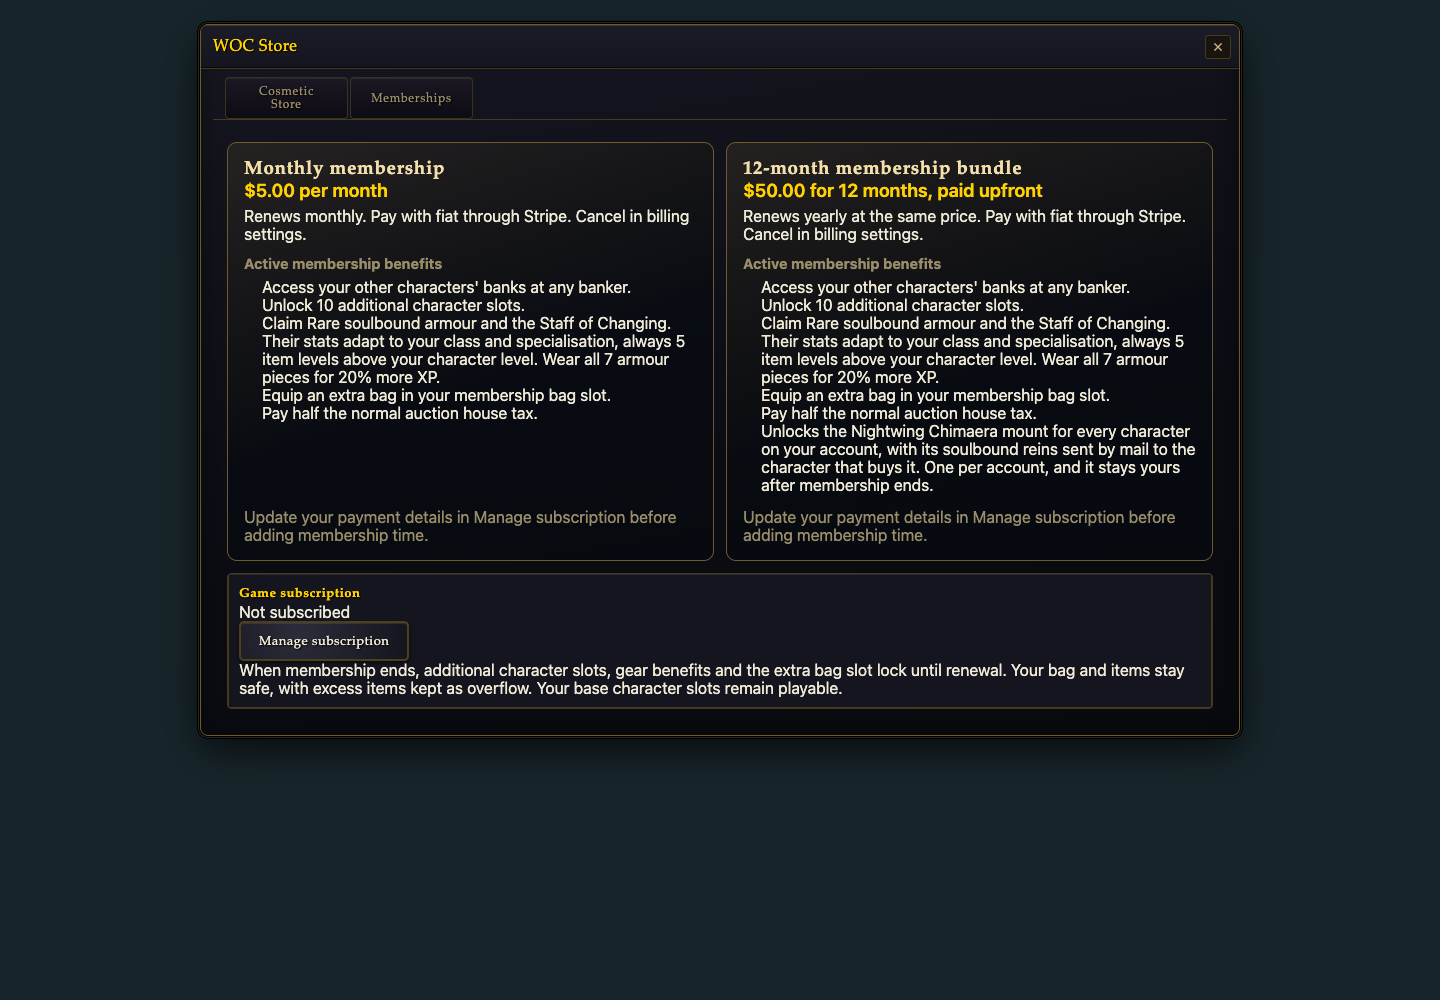
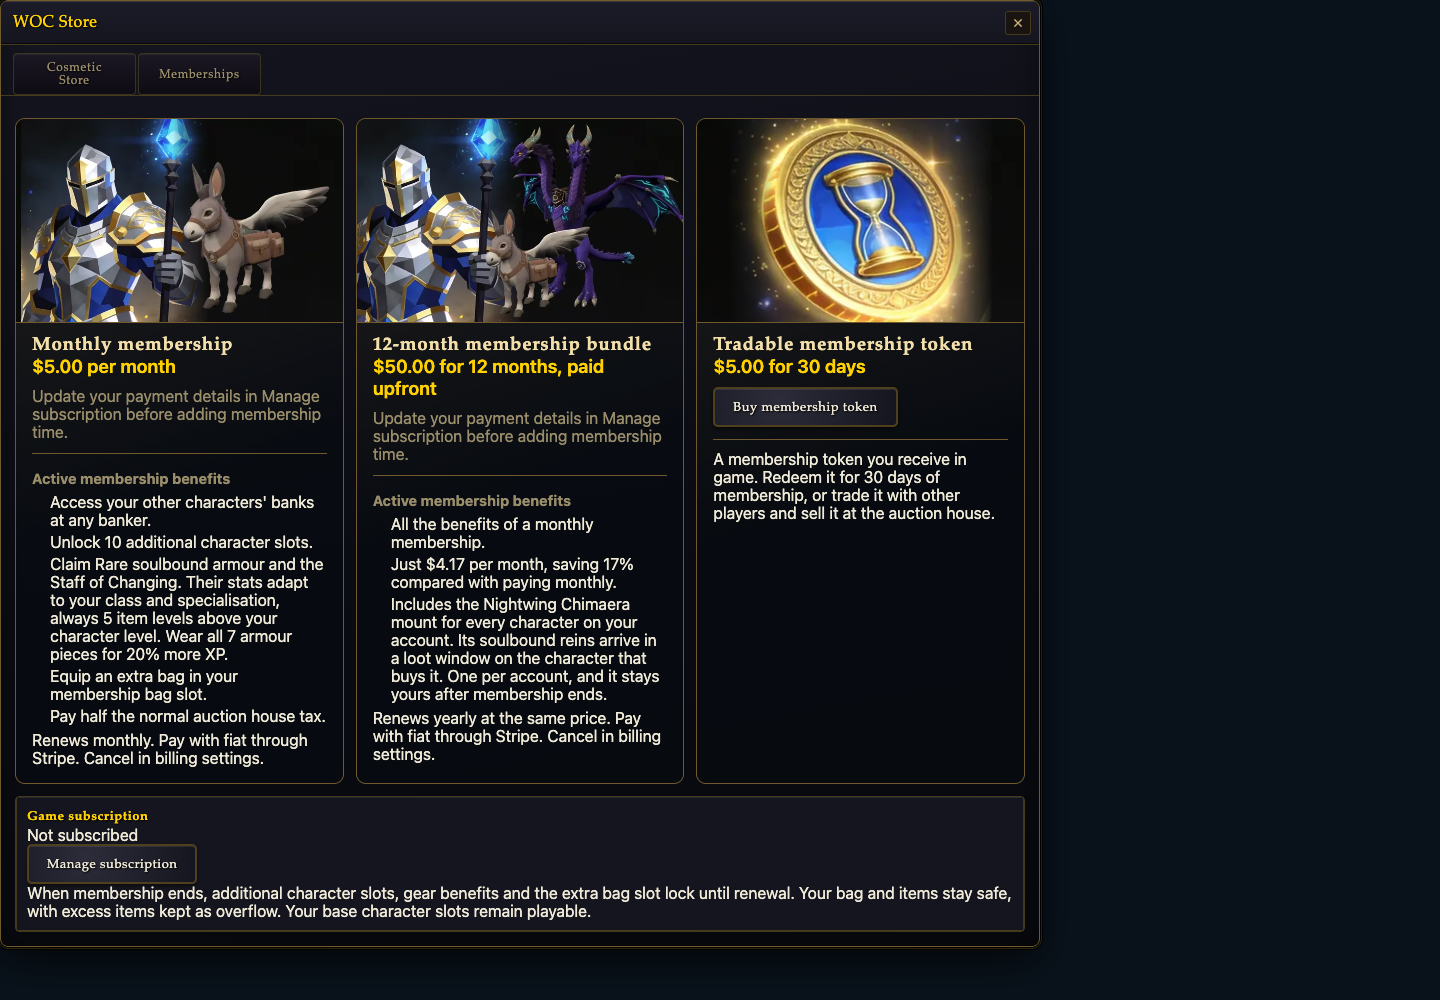
fix(store): retain entry reward delivery across background refreshes
Coalesce a foreground refresh after an outstanding status poll so reopening the store still retrieves offers and delivers rewards. Preserve the release membership artwork and reward flow, and verify the backport with updated component captures and integration tests.

diff --git a/tests/store_membership_refresh.test.ts b/tests/store_membership_refresh.test.ts
@@ -46,8 +46,9 @@ function harness() {
   const snapshot = vi.fn(async () => state);
   const tokenOffer = vi.fn();
   const annualMountClaim = vi.fn();
+  const tokenClaim = vi.fn();
   const link = vi.fn();
-  let hooks: SubscriptionStoreHooks = { snapshot, tokenOffer, annualMountClaim, link };
+  let hooks: SubscriptionStoreHooks = { snapshot, tokenOffer, annualMountClaim, tokenClaim, link };
   const root = document.createElement('div');
   document.body.append(root);
   const store = new DailyRewardsWindow({
@@ -67,6 +68,7 @@ function harness() {
     snapshot,
     tokenOffer,
     annualMountClaim,
+    tokenClaim,
     link,
     setState: (next: Partial<SubscriptionSnapshot>) => {
       state = { ...state, ...next };
@@ -90,17 +92,60 @@ describe('Memberships status refresh', () => {
     for (let i = 0; i < 20; i++) await vi.advanceTimersByTimeAsync(15_000);
     h.setState({
       status: 'trialing',
+      plan: 'game_monthly',
       canStack: true,
       stackLimit: 2_000_000_000,
       currentPeriodEnd: 1_900_000_000,
     });
     await vi.advanceTimersByTimeAsync(15_000);
-    expect(h.root.textContent).toContain('Add 12 months');
+    expect(h.root.textContent).toContain('Upgrade to 12 months');
     expect(h.root.textContent).not.toContain('Checkout pending');
     expect(h.snapshot).toHaveBeenCalledTimes(22);
     expect(h.tokenOffer).toHaveBeenCalledTimes(1);
     expect(h.annualMountClaim).toHaveBeenCalledTimes(1);
     expect(h.link).not.toHaveBeenCalled();
+  });
+
+  it('keeps annual discovery and pending token delivery on entry, outside status polls', async () => {
+    localStorage.setItem('woc.membership-token.pending', 'pending-token-intent');
+    const h = harness();
+    h.setState({ status: 'active', plan: 'game_annual', canStack: true });
+    h.annualMountClaim.mockResolvedValue({ delivered: false });
+    h.tokenClaim.mockResolvedValue({ delivered: false });
+    h.store.openStore('memberships');
+    await vi.advanceTimersByTimeAsync(0);
+    expect(h.annualMountClaim).toHaveBeenCalledExactlyOnceWith();
+    expect(h.tokenClaim).toHaveBeenCalledExactlyOnceWith('pending-token-intent');
+    await vi.advanceTimersByTimeAsync(60_000);
+    expect(h.snapshot).toHaveBeenCalledTimes(5);
+    expect(h.annualMountClaim).toHaveBeenCalledTimes(1);
+    expect(h.tokenClaim).toHaveBeenCalledTimes(1);
+  });
+
+  it('performs a full entry refresh after reopening during an outstanding status poll', async () => {
+    localStorage.setItem('woc.subscription.41.game_annual.pending', 'pending-annual-intent');
+    const h = harness();
+    h.annualMountClaim.mockResolvedValue({ delivered: false });
+    h.store.openStore('memberships');
+    await vi.advanceTimersByTimeAsync(0);
+    let resolve!: (state: SubscriptionSnapshot) => void;
+    h.snapshot.mockImplementationOnce(
+      () =>
+        new Promise((done) => {
+          resolve = done;
+        }),
+    );
+    await vi.advanceTimersByTimeAsync(15_000);
+    h.store.close();
+    h.store.openStore('memberships');
+    await vi.advanceTimersByTimeAsync(0);
+    h.store.openStore('memberships');
+    await vi.advanceTimersByTimeAsync(0);
+    resolve({ ...SUBSCRIPTION_OFF, available: true, accountId: 41 });
+    await vi.advanceTimersByTimeAsync(0);
+    expect(h.snapshot).toHaveBeenCalledTimes(3);
+    expect(h.tokenOffer).toHaveBeenCalledTimes(2);
+    expect(h.annualMountClaim).toHaveBeenCalledTimes(2);
   });
 
   it('keeps identical DOM, keyboard focus and scroll across unchanged polls and failed reads', async () => {

diff --git a/src/ui/store_subscription.ts b/src/ui/store_subscription.ts
@@ -40,6 +40,8 @@ export class StoreSubscription {
     }
   }
   private flight: Promise<void> | null = null;
+  private flightStatusOnly = false;
+  private entryRefresh: Promise<void> | null = null;
   private busy = false;
   private owner: SubscriptionStoreHooks | undefined;
   private readonly intents = new SubscriptionCheckoutIntents({
@@ -105,9 +107,22 @@ export class StoreSubscription {
   }
 
   refresh(statusOnly = false): Promise<void> {
-    if (this.flight) return this.flight;
+    if (this.flight) {
+      // A foreground entry must still fetch offers and deliver rewards when it
+      // arrives during a cheaper status-only read. Coalesce repeated entries.
+      if (!statusOnly && this.flightStatusOnly) {
+        this.entryRefresh ??= this.flight
+          .then(() => this.refresh())
+          .finally(() => {
+            this.entryRefresh = null;
+          });
+        return this.entryRefresh;
+      }
+      return this.flight;
+    }
     if (statusOnly && this.busy) return Promise.resolve();
     const hooks = this.hooks();
+    this.flightStatusOnly = statusOnly;
     this.flight = Promise.resolve()
       .then(async () => {
         const [state, tokenState] = await Promise.all([

diff --git a/tests/store_subscription_offers.test.ts b/tests/store_subscription_offers.test.ts
@@ -20,7 +20,7 @@ describe('membership plan badges', () => {
     (status) => {
       const state = { ...SUBSCRIPTION_OFF, available: true, status, plans, canManage: true };
       expect(subscriptionPurchase(state, 'game_monthly', NOW)).toBe('pending');
-      const html = subscriptionOffersHtml(state, false, false, false, false, '', NOW);
+      const html = subscriptionOffersHtml(state, false, false, false, '', NOW);
       expect(html).toContain('Checkout pending');
       expect(html).not.toContain('Update your payment details');
       expect(html).not.toContain('Not subscribed');

diff --git a/docs/screenshots/membership-status-refresh/README.md b/docs/screenshots/membership-status-refresh/README.md
@@ -1,8 +1,8 @@
 # Membership status refresh
 
-Component captures from PR4668's existing membership layout, using the real
+Component captures from the release/v0.45.5 membership backport, using the real
 `subscriptionOffersHtml` renderer and game styles. The before renderer comes from
-`6f4febdce186b740e8ad304f48876424c7791d55`. Fixtures use a pending monthly checkout
+`a65a52263cedfc511bd8acad7305644a0d6833a2`. Fixtures use a pending monthly checkout
 and a confirmed monthly trial; no Stripe checkout or payment was created.
 
 | Viewport | Before | Pending confirmation | Confirmed |
@@ -11,11 +11,11 @@ and a confirmed monthly trial; no Stripe checkout or payment was created.
 | Mobile portrait, 390 x 844 | [Before](before-mobile.png) | [Pending](pending-mobile.png) | [Confirmed](confirmed-mobile.png) |
 | Mobile landscape, 844 x 390 | [Before](before-landscape.png) | [Pending](pending-landscape.png) | [Confirmed](confirmed-landscape.png) |
 
-Chromium reported no page errors or horizontal overflow in any capture (see
+Chromium reported no page errors, broken artwork or horizontal overflow in any capture (see
 `verification.json`). The smaller viewports show the top of the scrollable store.
 `tests/store_membership_refresh.test.ts` exercises the actual store timer, delayed
 confirmation, unchanged DOM, focus, scroll, account changes and request suppression.
 Screen-reader announcement output and live Stripe plan changes were not manually tested.
 
-PR4678's newer artwork and reward dialogs are separate changes; they are not imported
-into this PR by these screenshots.
+The release already includes PR4678's artwork and reward delivery. These captures
+retain that layout and show the pending message and confirmed monthly-to-annual offer.
